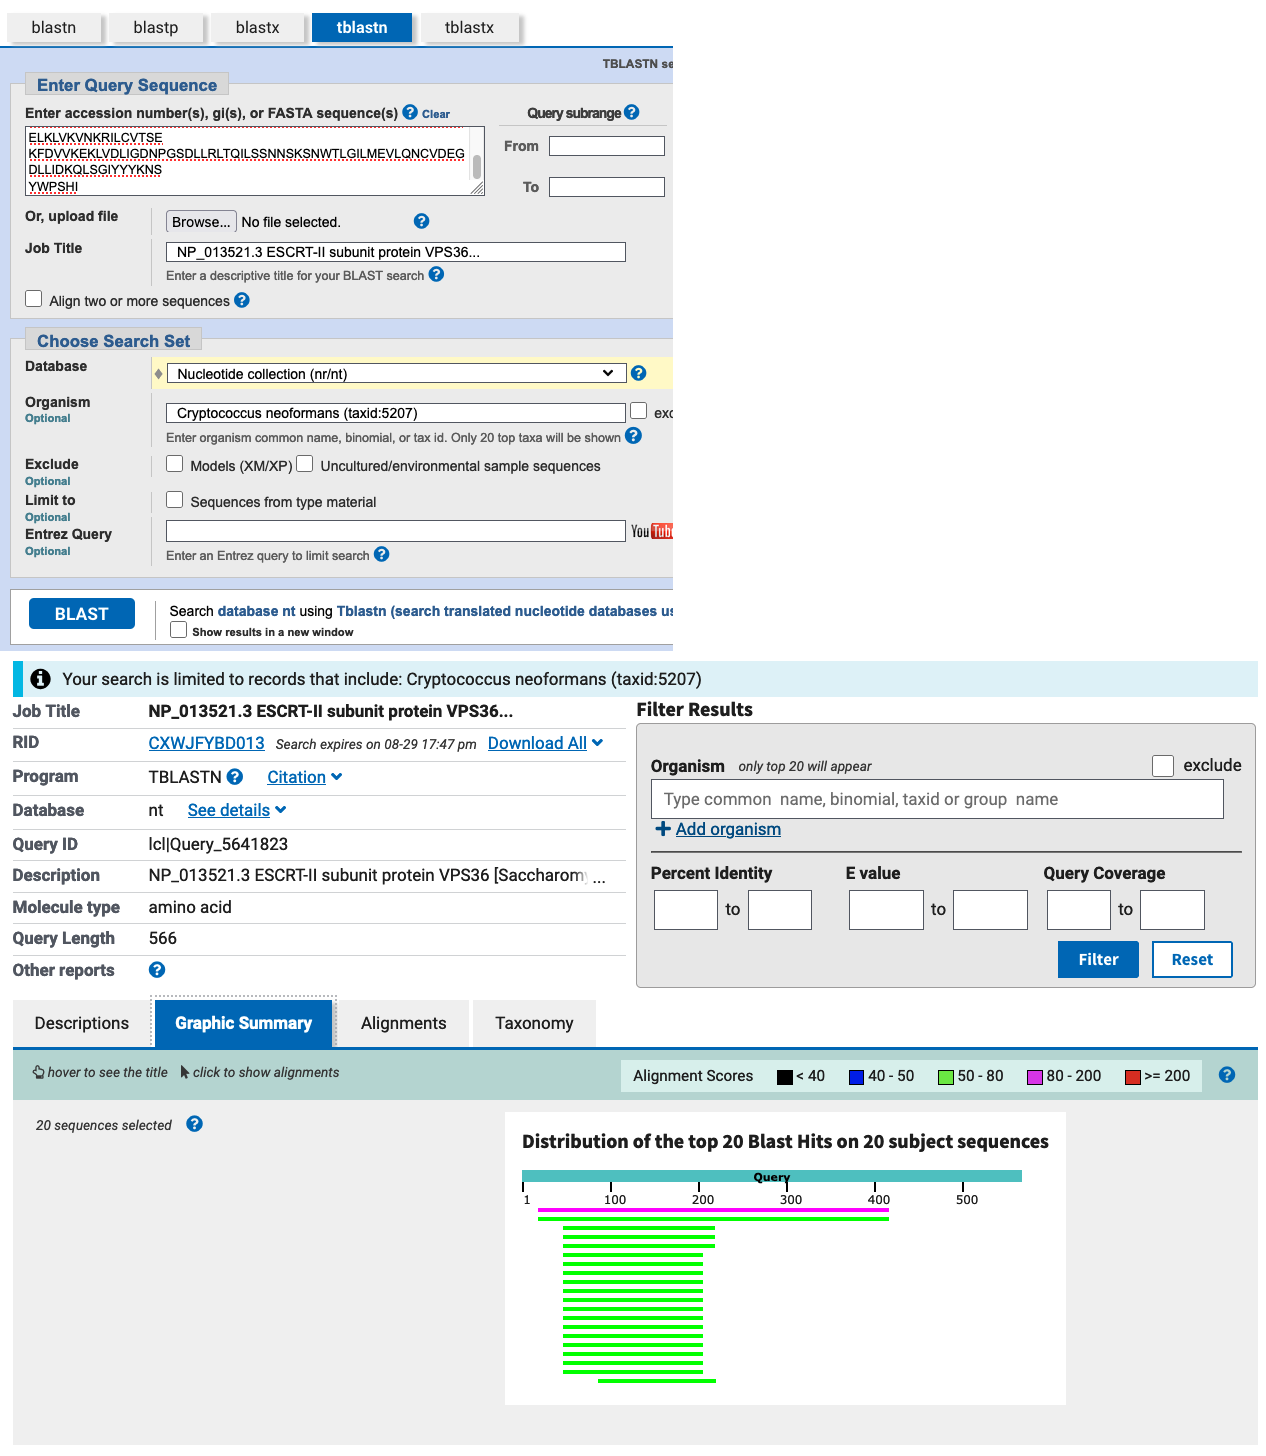
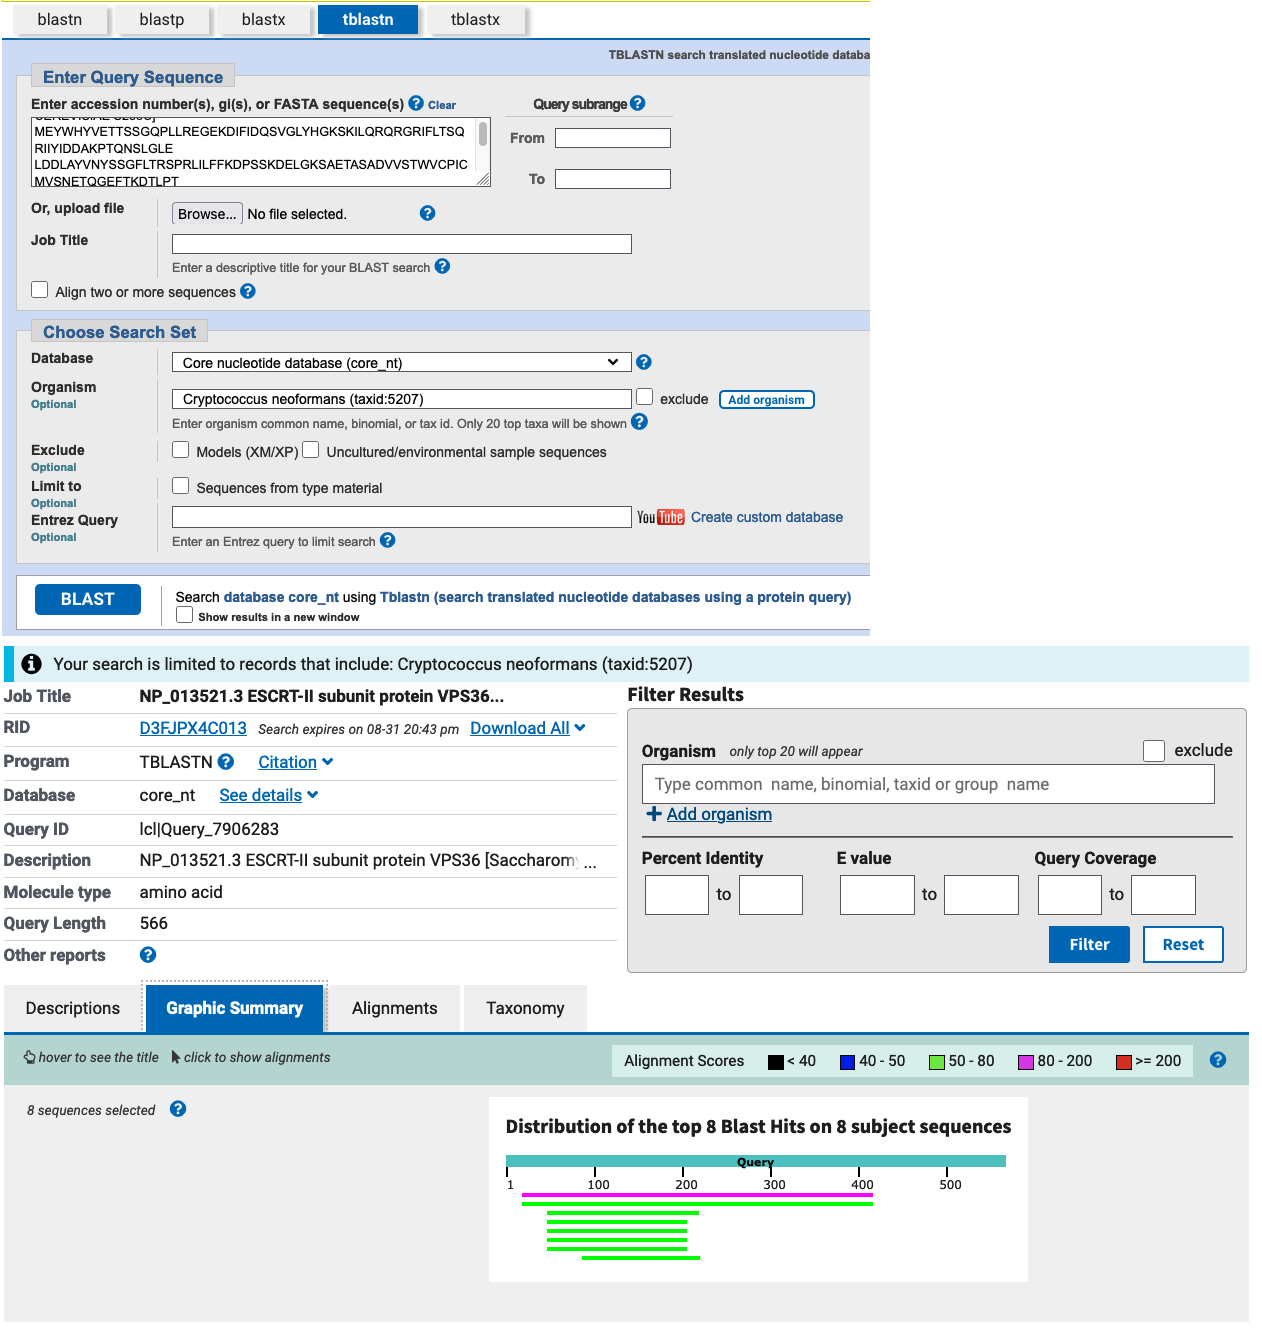
Week 2 Tutorial

Changed region(s): [[0.0, 0.0, 1.0, 0.9528]]

diff --git a/week2.md b/week2.md
@@ -740,7 +740,7 @@ Blast cannot only be used to search proteins sequences in protein databases with
 Here we explore these strategies by searching for homologs of the yeast Vps36p in fungi and other organisms. \
   a. Next, we aim to find out if homologs of this protein exist in the fungus _Cryptococcus neoformans_. What would be the most straightforward BLAST search strategy to do this? Perform this blast search using a large database (non-redundant). How many hits do you find? Inspect the length of the alignments, the percent identity, and E-value. What do you observe and what do you conclude? \
   b. In case no homologs would have been found using a ‘normal’ blastp search, which alternatives could you use to still find homologs, e.g. in the genome sequence? Describe what happens in that BLAST flavor. \
-  c. Search the protein sequence of Vps36p against the nucleotide sequences of _C. neoformans_ using tblastn, indicating that you <u>only</u> want to search this single species and not the entire database (use the database: Nucleotide collection (nt)). Inspect the search results. Do you think these are good hits and would you feel comfortable to conclude that there are (or are not) homologs of this gene in _C. neoformans_? \
+  c. Search the protein sequence of Vps36p against the nucleotide sequences of _C. neoformans_ using tblastn, indicating that you <u>only</u> want to search this single species and not the entire database (use the database: Core nucleotide database (core_nt)). Inspect the search results. Do you think these are good hits and would you feel comfortable to conclude that there are (or are not) homologs of this gene in _C. neoformans_? \
   d. Some of the hits reported are part of chromosome 1 of _C. neoformans_. Inspect these hits in more detail. How long is your query and how long is the sequence in the database? \
   e. Think about the following case, where you would like to study this hit in more detail. For instance, you could perform a multiple sequence alignment of your protein with this database hit and also with other sequences. What would happen if you would download the sequence from the database? Why could this be a problem, and how could you solve this? \
   f. _S. cerevisiae_ belongs to the fungal phylum Ascomycota, while _C. neoformans_ belongs to the phylum Basidiomycetes. Vps36p is highly conserved throughout Ascomycota and likely has homologs outside of this phylum too, as already indicated by your searches above. We now want to get a better overview of possible homologs of Vps36p in other species (outside of Ascomycota). To this end, perform a blastp search of Vsp36p to the refseq_protein database (excluding Ascomycota), set the number of target sequences to the maximum. Have a look at the best hits. What can you say in terms of query coverage and identity? \
@@ -788,7 +788,7 @@ To this end, we will download some hits and perform a multiple sequence alignmen
 %ANSWER%:width: 100%
 %ANSWER%:name: assignment_2c_ncbi
 %ANSWER%```
-%ANSWER%You find 12 hits (with NCBI blast that would be 20). The results are similar to the blastp results. The first two matches have a good combination of a low E-value and a high query coverage. However the percent identity is low. This suggests these are clearly divergent (low percent identity) homologs in _C. neoformans_. The other hits concern only a small part of the query. \
+%ANSWER%You find 8 hits. The results are similar to the blastp results. The first two matches have a good combination of a low E-value and a high query coverage. However the percent identity is low. This suggests these are clearly divergent (low percent identity) homologs in _C. neoformans_. The other hits concern only a small part of the query. \
 %ANSWER%d.
 %ANSWER%
 %ANSWER%WUR blast
